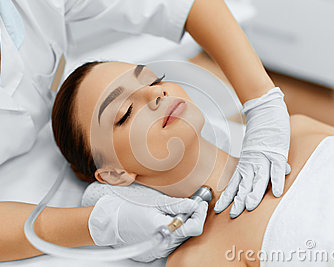
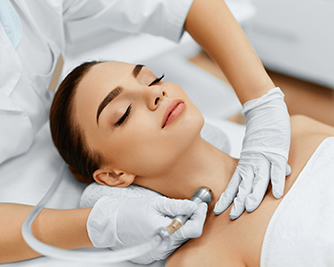
Replaced thumbnail images. Began work with before and after images.

diff --git a/resources/views/home/galvanic-treatment.blade.php b/resources/views/home/galvanic-treatment.blade.php
@@ -4,7 +4,13 @@
 
 <div class="row">
 	<div class="col-sm-3">
-		<img src="{{url('')}}/img/galvanic-treatment-home-page.jpg" alt="Galvanic Treatment" class="img-responsive margin-bottom-15 img-border">
+		<!--<img src="{{url('')}}/img/galvanic-treatment-home-page.jpg" alt="Galvanic Treatment" class="img-responsive margin-bottom-15 img-border">-->
+		<div class="featured-img featured-img-before">
+			<img src="{{url('')}}/img/galvanic-treatment-before.jpg" alt="Galvanic Treatment Before" class="img-responsive margin-bottom-15 img-border">
+		</div>
+		<div class="featured-img featured-img-after">
+			<img src="{{url('')}}/img/galvanic-treatment-after.jpg" alt="Galvanic Treatment After" class="img-responsive margin-bottom-15 img-border">
+		</div>
 	</div>
 	<div class="col-sm-9">
 
